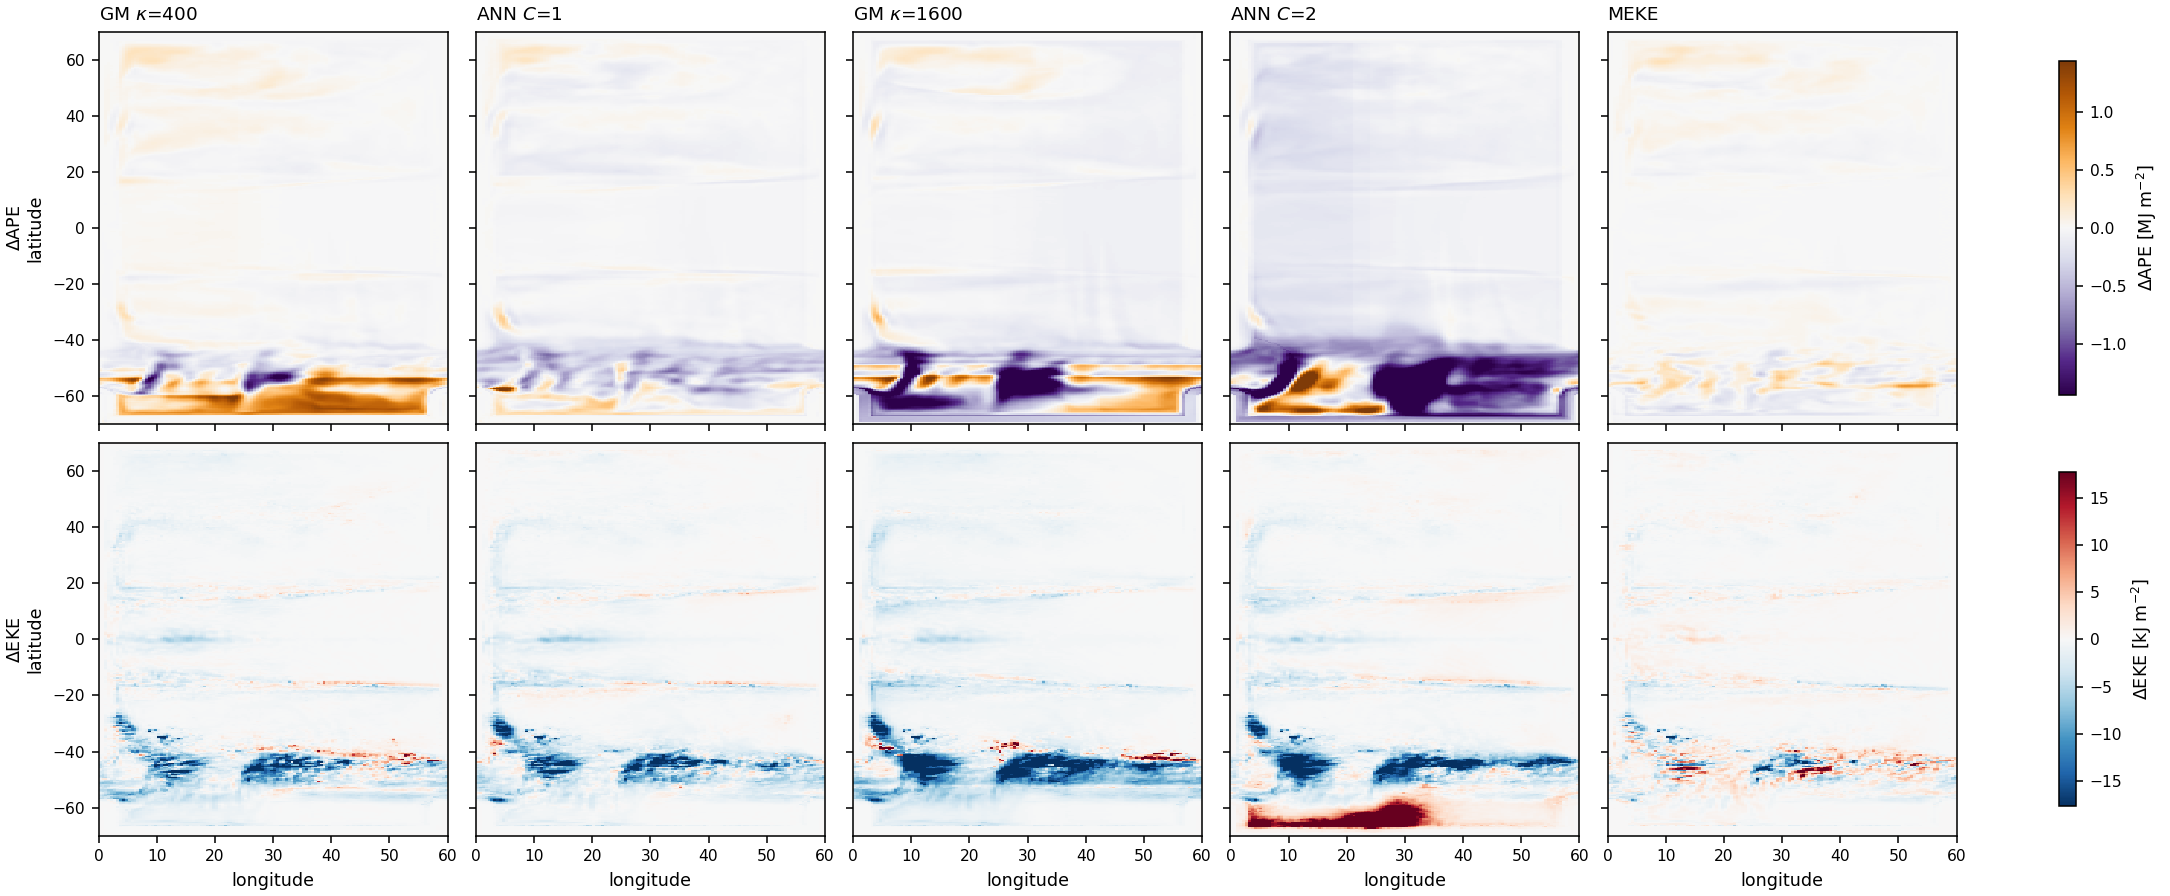
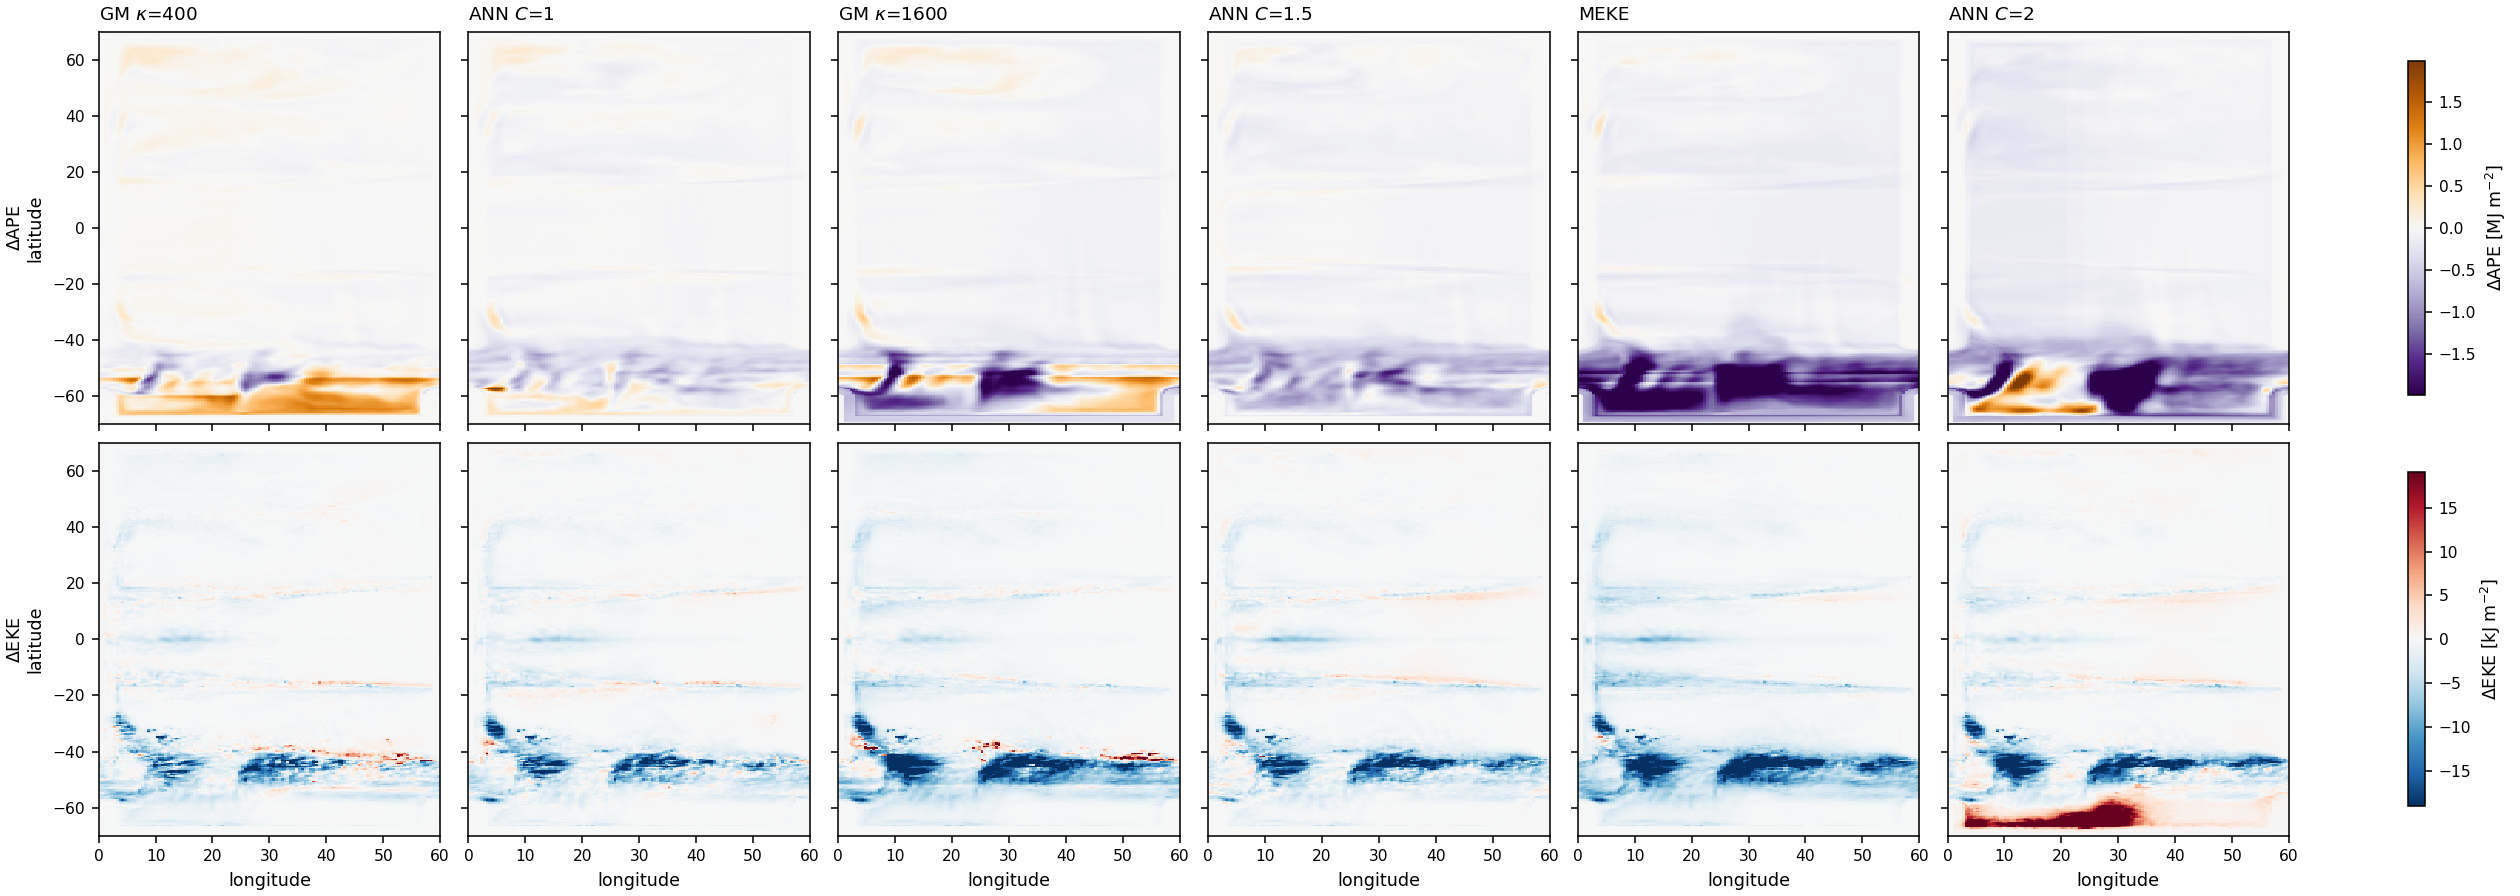
NW2 spike diagnosis: high-C KE excursions are a thin-layer numerical transient in layer 4, not eddy physics
Ntrunc scales with C (1/17/74 for C=1/1.5/2 vs 0-8 for the other closures), CFL stays under 0.4, and
the spikes concentrate in layer 4 of 15 (near-surface, thin) holding up to 49% of total KE at spikes
vs 13% typically -- the classic thin-layer transport/thickness problem in isopycnal mode, and the
layered analogue of the mixed-layer trouble the Upsilon work found in EOS mode. Both truncations and
spikes fade after ~10 yr, so it is an adjustment transient rather than an instability.

Rest claims on C=1 (1 truncation, and the untuned value the paper argues for). Maps also show the
ANN response becomes MORE diffusive-like as C rises (pattern correlation with MEKE +0.42 -> +0.63),
a further argument for C=1 as canonical.

Claude-Session: https://claude.ai/code/session_013YxY5kSiCrM21jUwV4Z6dE

diff --git a/src/training-on-CM2.6/scripts/nw2_spike_diagnosis.py b/src/training-on-CM2.6/scripts/nw2_spike_diagnosis.py
@@ -1,0 +1,65 @@
+"""Are the KE spikes in the higher-C ANN runs physical, or numerical trouble?
+
+ocean.stats.nc carries exactly what is needed to tell: `Ntrunc` (velocity truncations applied that
+step -- nonzero means the model had to clip a velocity, i.e. numerical distress) and the two CFL
+diagnostics, alongside KE resolved BY LAYER, which localises where a spike lives in the vertical.
+
+A physical eddy-energy excursion should show no truncations, CFL well under 1, and KE spread over
+the layers that carry the flow. A numerical one shows truncations coincident with the spikes and
+KE concentrated in one or two layers -- most often the thinnest."""
+import numpy as np, xarray as xr
+import matplotlib; matplotlib.use("Agg"); import matplotlib.pyplot as plt
+
+B = "/scratch/db194/mom6/jul2026_nw2"
+RUNS = ["bare", "GM400", "GM1600", "MEKE", "ANN_c1p0", "ANN_c1p5", "ANN_c2p0"]
+
+d = {}
+for r in RUNS:
+    ds = xr.open_dataset(f"{B}/{r}/output/ocean.stats.nc", decode_times=False)
+    d[r] = dict(t=(ds["Time"].values - ds["Time"].values[0]) / 360.0,
+                ntr=ds["Ntrunc"].values, ke=ds["KE"].values,
+                cfl=ds["max_CFL_trans"].values, cfl_lin=ds["max_CFL_lin"].values)
+    ds.close()
+
+print(f"{'run':<10}{'tot Ntrunc':>12}{'steps>0':>9}{'max CFL_tr':>12}{'max CFL_lin':>13}"
+      f"{'KE p99/median':>15}{'layer of max KE':>17}")
+for r in RUNS:
+    s = d[r]; ke = s["ke"].sum(axis=1)
+    kl = s["ke"][np.argmax(ke)]                       # layer profile at the peak-KE time
+    print(f"{r:<10}{int(s['ntr'].sum()):>12}{int((s['ntr']>0).sum()):>9}{s['cfl'].max():>12.3f}"
+          f"{s['cfl_lin'].max():>13.3f}{np.percentile(ke,99)/np.median(ke):>15.2f}"
+          f"{int(np.argmax(kl))+1:>10} of {s['ke'].shape[1]}")
+
+# where does the excess KE live, at the spikes, for the ANN runs?
+print("\nlayer share of KE at the 5 largest spikes (ANN runs), vs the run's own median profile:")
+for r in ("ANN_c1p0", "ANN_c1p5", "ANN_c2p0"):
+    s = d[r]; ke = s["ke"].sum(axis=1)
+    top = np.argsort(ke)[-5:]
+    prof_hi = s["ke"][top].mean(axis=0); prof_hi /= prof_hi.sum()
+    prof_md = np.median(s["ke"], axis=0); prof_md /= prof_md.sum()
+    k = int(np.argmax(prof_hi - prof_md))
+    print(f"  {r:<10} spike KE concentrates in layer {k+1:2d} "
+          f"({100*prof_hi[k]:.0f}% of KE at spikes vs {100*prof_md[k]:.0f}% typically)")
+
+plt.rcParams.update({"font.size": 9, "axes.titlesize": 9.5, "axes.labelsize": 9,
+                     "xtick.labelsize": 8.5, "ytick.labelsize": 8.5, "legend.fontsize": 8})
+fig, ax = plt.subplots(1, 3, figsize=(13.5, 3.4), constrained_layout=True)
+COL = {"bare": "#8c8c8c", "GM400": "#4292c6", "GM1600": "#08306b", "MEKE": "#9ecae1",
+       "ANN_c1p0": "#fd8d3c", "ANN_c1p5": "#e6550d", "ANN_c2p0": "#a63603"}
+for r in RUNS:
+    s = d[r]
+    ax[0].plot(s["t"], s["ntr"], color=COL[r], lw=1.0, label=r)
+    ax[1].plot(s["t"], s["cfl"], color=COL[r], lw=0.9)
+ax[0].set_title("(a) velocity truncations per report", loc="left"); ax[0].set_ylabel("Ntrunc")
+ax[1].set_title("(b) max CFL (transport)", loc="left"); ax[1].set_ylabel("CFL")
+ax[1].axhline(1.0, color="k", ls=":", lw=1)
+s = d["ANN_c2p0"]
+for k in range(s["ke"].shape[1]):
+    ax[2].plot(s["t"], s["ke"][:, k] / 1e15, lw=0.8, color=plt.cm.viridis(k / 14))
+ax[2].set_title("(c) ANN $C$=2: KE by layer (dark=surface)", loc="left")
+ax[2].set_ylabel("KE [$10^{15}$ J]")
+for a in ax:
+    a.set_xlabel("years since branch"); a.spines[["top", "right"]].set_visible(False)
+ax[0].legend(frameon=False, ncol=2, fontsize=7)
+png = "/home/db194/ANN-momentum-buoyancy-mesoscale/src/training-on-CM2.6/scripts/nw2_spike_diagnosis.png"
+fig.savefig(png, dpi=150); print("\nwrote", png)

diff --git a/src/training-on-CM2.6/scripts/nw2_ape_eke_maps.py b/src/training-on-CM2.6/scripts/nw2_ape_eke_maps.py
@@ -24,7 +24,8 @@ B = "/scratch/db194/mom6/jul2026_nw2"
 RHO0, G, NWIN = 1035.0, 9.8, 5
 # paired for comparison: matched-response pair first, then the stronger pair, then MEKE
 ORDER = [("GM400", "GM $\\kappa$=400"), ("ANN_c1p0", "ANN $C$=1"),
-         ("GM1600", "GM $\\kappa$=1600"), ("ANN_c2p0", "ANN $C$=2"), ("MEKE", "MEKE")]
+         ("GM1600", "GM $\\kappa$=1600"), ("ANN_c1p5", "ANN $C$=1.5"),
+         ("MEKE", "MEKE"), ("ANN_c2p0", "ANN $C$=2")]
 
 def last(run, stream, n=NWIN):
     return sorted(glob.glob(f"{B}/{run}/output/{stream}_*.nc"))[-n:]
@@ -82,7 +83,7 @@ for a in ("ANN_c1p0", "ANN_c2p0"):
 
 plt.rcParams.update({"font.size": 9, "axes.titlesize": 9.5, "axes.labelsize": 9,
                      "xtick.labelsize": 8, "ytick.labelsize": 8})
-fig, ax = plt.subplots(2, 5, figsize=(15.5, 6.4), sharex=True, sharey=True, constrained_layout=True)
+fig, ax = plt.subplots(2, 6, figsize=(18.0, 6.4), sharex=True, sharey=True, constrained_layout=True)
 va = np.nanpercentile(np.abs(np.stack([res[r][0] for r, _ in ORDER])), 99) / 1e6
 vk = np.nanpercentile(np.abs(np.stack([res[r][1] for r, _ in ORDER])), 99) / 1e3
 for j, (r, lab) in enumerate(ORDER):

diff --git a/PLAN.md b/PLAN.md
@@ -240,3 +240,4 @@ Using the M1 inventory, reduce the analysis sprawl to a canonical story.
   | ANN C=2 | −18.0 | 84 | 49.9 |
 
   **(1) C=2 is NOT anomalous in APE** — the response scales smoothly and near-linearly, −4.6/−10.3/−18.0 for C=1/1.5/2 ⇒ **no self-limiting saturation in NW2**, unlike the channel where the APE slope saturated 0.91→1.00 over cb 1→4. Worth understanding before §4.2 claims anything about coefficient insensitivity: the channel result may be specific to that configuration, or NW2 is further from the saturating regime. **(2) The KE ordering is genuinely non-monotonic in C** (77/78/84%) while APE removal triples — the ANN removes more APE *without* paying in eddy energy, which is the opposite of the diffusive trade-off and the clearest ANN-vs-GM contrast we have. But C=2's KE trace still shows the large early transients (panel b), so I would rest the claim on **C=1.5, which is well-behaved and already shows it** (APE −10.3 vs GM1600's −7.2, i.e. MORE APE removed, at KE 78% vs 61%). **(3) MEKE with its source restored is now the STRONGEST closure** (ΔAPE −24.0, rms Δe 44.4 m, KE 69%) — a complete reversal of the broken run, confirming the diagnosis. It removes ~2.3× the APE of ANN C=1.5 but costs more eddy energy per unit APE removed. **Caveat unchanged:** single realizations, still drifting at 20 yr (panel a), no truth comparison by design. **The ANN C=1 vs GM400 comparison remains the weak link** (72 vs 75% EKE, within noise) — needs a second realization of just those two if §4.2 leans on it.
+- **2026-07-31 (cont) — SPIKE DIAGNOSIS: the high-C ANN KE excursions are a THIN-LAYER numerical transient, not eddy physics.** Dhruv flagged the oscillations as suspicious; `scripts/nw2_spike_diagnosis.py` (ocean.stats.nc carries `Ntrunc`, both CFLs, and KE **by layer**) settles it. **(1) Velocity truncations scale with C**: bare 8 / GM400 7 / MEKE **0** / ANN C=1 **1** / C=1.5 **17** / C=2 **74** (on 1/4/20 reporting steps respectively) ⇒ the higher-C runs are in mild numerical distress that the other closures are not. **(2) But it is not a timestep problem** — max CFL 0.39 (C=2), 0.37 (C=1.5) vs ~0.2 elsewhere: elevated, nowhere near 1. **(3) The spikes are vertically localised in LAYER 4 of 15** (ρ=1023.74, near-surface and thin), and the concentration scales with C: at the five largest spikes layer 4 holds **31% / 40% / 49%** of total KE for C=1/1.5/2 against **11–13%** typically. **(4) Timing:** truncations and spikes both cluster in the first ~10 yr and fade — consistent with an adjustment transient, not a persistent instability. **Interpretation:** a strong eddy-induced transport in a thin near-surface layer produces large velocities (transport/thickness), the classic thin-layer problem in isopycnal mode; this is the layered analogue of the mixed-layer trouble the Υ work found in EOS mode, and it is exactly what `MESO_SFN_MIN_DIST_BOUNDARY` (=50 m, active only in layered mode) exists to guard against — evidently not enough at C≥1.5. **Consequences:** (a) **rest §4.2 claims on C=1** (1 truncation, clean) — which is also the untuned value the paper argues for — and treat C=1.5/2 as sensitivity runs with the transient declared; (b) C=2's first ~10 yr must be excluded from any energetics; (c) worth testing whether raising MIN_DIST_FROM_BOUNDARY removes the transient, though that is a tuning knob we have otherwise avoided. **Maps updated for all 7 runs** (`nw2_ape_eke_maps.png`): ΔAPE area-mean GM400 **+27k** / ANN C=1 −52k / GM1600 −86k / ANN C=1.5 −117k / ANN C=2 −213k / MEKE **−271k** J/m². Pattern correlation of the ANN response against the diffusive family rises with C (C=1: +0.27/+0.26/+0.42 vs GM400/GM1600/MEKE; C=2: +0.02/+0.53/+0.63) ⇒ **at its untuned coefficient the ANN's spatial response is most distinct from the diffusive closures, and becomes more diffusive-like as it is strengthened** — a further argument for C=1 as canonical.
